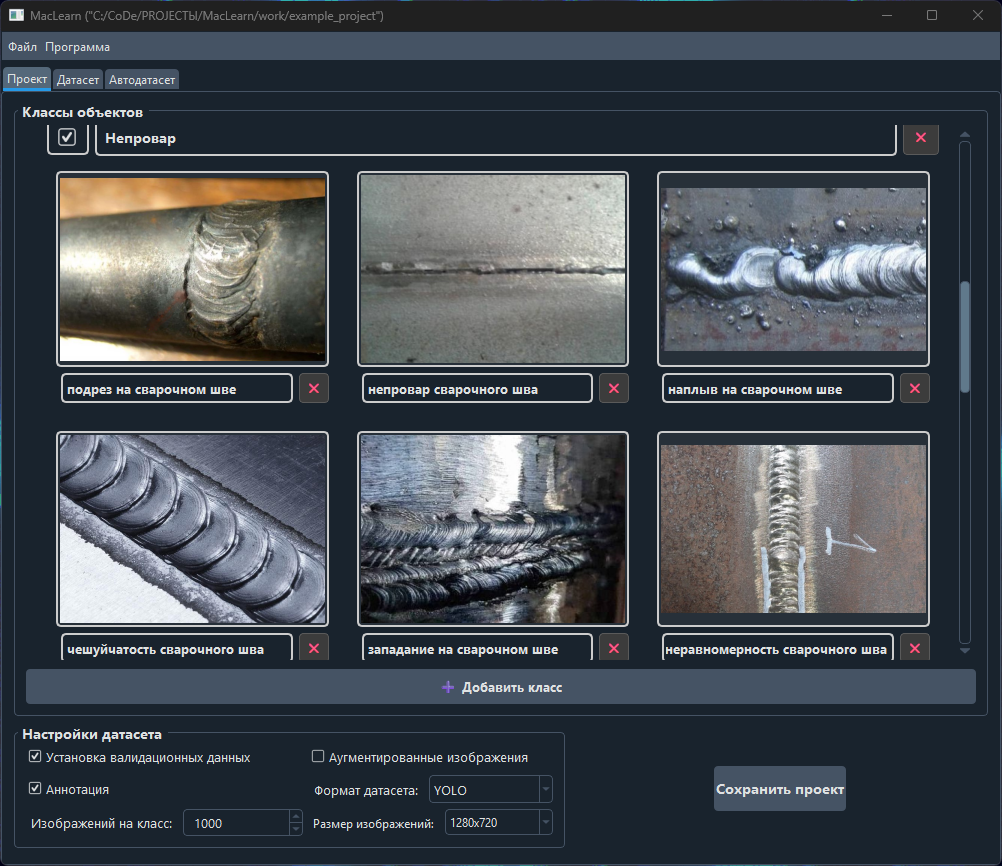
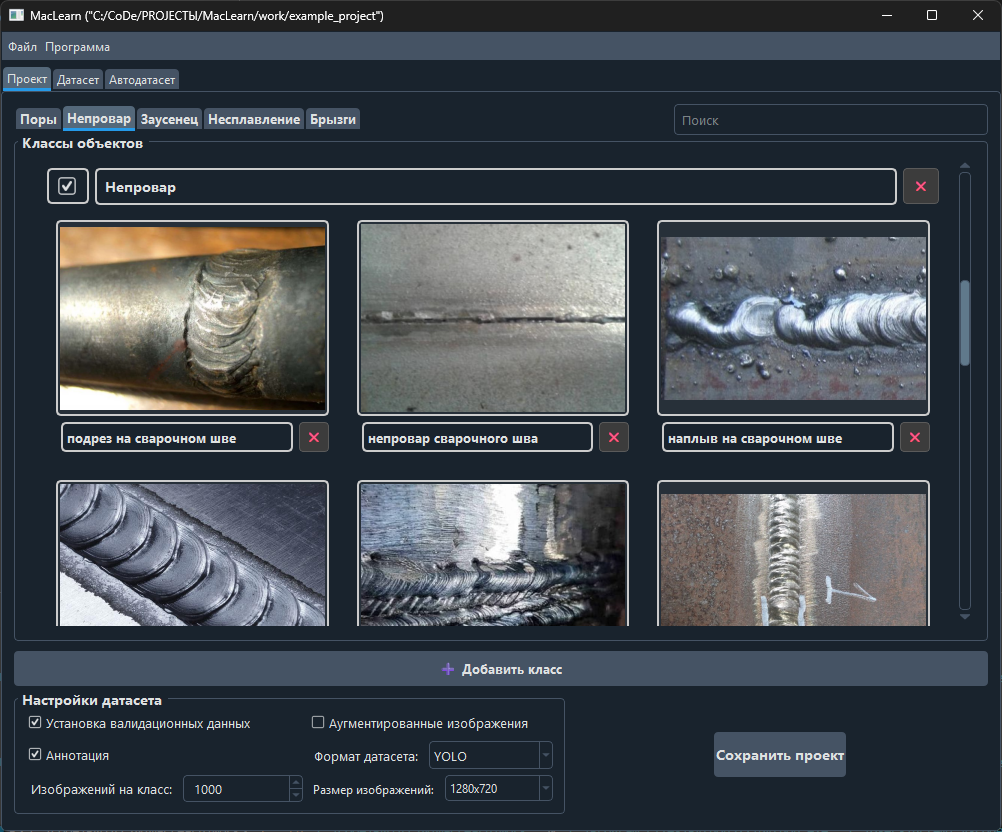
New funcs, optimizations, interface

diff --git a/src/interface_module/window.py b/src/interface_module/window.py
@@ -80,7 +80,7 @@ class ObjectCardWidget(QWidget):
 class ClassFieldWidget(QWidget):
     def __init__(self):
         super().__init__()
-        self.objects_widgets = []
+        self.objects: list[ObjectCardWidget] = []
 
     def initUI(self, class_name: str=None, enabled: bool=True,
                import_and_export_buttons: bool=True, name_enabled: bool=True):
@@ -104,14 +104,14 @@ class ClassFieldWidget(QWidget):
             self.class_checkbox.setChecked(enabled)
         self.class_name.setEnabled(self.name_enabled)
         self.class_add_object.setEnabled(enabled)
-        for object in self.objects_widgets:
+        for object in self.objects:
             object.setEnabled(enabled)
 
 
     def delete_class(self):
-        for object in self.objects_widgets:
+        for object in self.objects:
             self.delete_object(object)
-        self.objects_widgets.clear()
+        self.objects.clear()
         self.setParent(None)
         self.deleteLater()
 
@@ -121,26 +121,29 @@ class ClassFieldWidget(QWidget):
         object_card.initUI(object_name, object_image, name_enabled, click_image)
         object_card.object_delete.clicked.connect(
             lambda: (self.delete_object(object_card), self.update_layout()))
-        self.objects_widgets.append(object_card)
+        self.objects.append(object_card)
         return object_card
 
     def delete_object(self, object_widget: ObjectCardWidget, user_call: bool=False):
-        if object_widget in self.objects_widgets:
-            self.objects_widgets.remove(object_widget)
+        if object_widget in self.objects:
+            self.objects.remove(object_widget)
             object_widget.delete_object()
 
     def get_object(self, object_name: str=None) -> bool | ObjectCardWidget:
-        for object in self.objects_widgets:
+        for object in self.objects:
             if object.object_name.text()==object_name:
                 return object
         return False
 
 
     def update_layout(self):
-        if self.width() <= 0 or not self.objects_widgets:
-            return
+        objects = list(filter(lambda o: o.isVisible(), self.objects))
+        if not objects:
+            if not self.objects:
+                return
+            objects = self.objects
 
-        all_widgets = self.objects_widgets + [self.class_add_object]
+        all_widgets = objects + [self.class_add_object]
         widget_width = all_widgets[0].minimumWidth() if all_widgets[0].minimumWidth() > 0 else 100
         max_subclasses_per_row = max(1, (self.width() - 10) // (widget_width + 10))
 
@@ -163,50 +166,61 @@ class ClassFieldWidget(QWidget):
 class OverviewClassWidget(QWidget):
     def __init__(self):
         super().__init__()
-        self.fields_list: list[ClassFieldWidget] = []
+        self.fields: list[ClassFieldWidget] = []
 
     def initUI(self, class_name: str=None):
         uic.loadUi(os.path.join(uis_path, "widgets", "overview_class.ui"), self)
         if class_name:
             self.overview_group.setTitle(class_name)
-        self.tab_bar.currentChanged.connect(lambda i: self.scroll_to_field(i))
+        self.tab_bar.currentChanged.connect(self.scroll_to_field)
+        self.lineEdit_search.textChanged.connect(self.search_update)
         self.overview_scroll_area.verticalScrollBar().valueChanged.connect(self.update_tab_selection_from_scroll)
 
 
     def add_field(self, field_widget: ClassFieldWidget, field_name: str):
         self.overview_vertical_layout.addWidget(field_widget)
-        self.fields_list.append(field_widget)
+        self.fields.append(field_widget)
         self.tab_bar.addTab(field_name)
 
     def remove_field(self, field_widget: ClassFieldWidget):
-        if field_widget in self.fields_list:
+        if field_widget in self.fields:
             for i in range(self.tab_bar.count()):
                 if self.tab_bar.tabText(i)==field_widget.class_name.text():
                     self.tab_bar.removeTab(i)
                     break
-            self.fields_list.remove(field_widget)
+            self.fields.remove(field_widget)
             if self.overview_vertical_layout:
                 self.overview_vertical_layout.removeWidget(field_widget)
             field_widget.delete_class()
 
 
+    def search_update(self):
+        search_text = self.lineEdit_search.text().lower()
+        for field in self.fields:
+            for object in field.objects:
+                if search_text in object.object_name.text().lower() or not search_text:
+                    object.show()
+                else:
+                    object.hide()
+        self.update_all_fields_layouts()
+
     def update_all_fields_layouts(self):
-        for field_widget in self.fields_list:
+        for field_widget in self.fields:
             field_widget.update_layout()
 
     def scroll_to_field(self, index: int):
         def _scroll_to_widget(widget, scroll_area):
             pos_in_contents = widget.mapTo(scroll_area.widget(), widget.rect().topLeft())
             scroll_area.verticalScrollBar().setValue(pos_in_contents.y())
-        if 0<=index<len(self.fields_list):
+        if 0<=index<len(self.fields):
             QTimer.singleShot(0, lambda: _scroll_to_widget(
-                self.fields_list[index], self.overview_scroll_area))
+                self.fields[index], self.overview_scroll_area))
 
     def update_tab_selection_from_scroll(self):
         scroll_pos = self.overview_scroll_area.verticalScrollBar().value()
         viewport_height = self.overview_scroll_area.viewport().height()
         best_index, best_visibility = -1, -1
-        for i, field_widget in enumerate(self.fields_list):
+        for i, field_widget in enumerate(self.fields):
             if not field_widget.isVisible():
                 continue
             widget_y = field_widget.mapTo(self.overview_scroll_area.widget(), field_widget.rect().topLeft()).y()
@@ -221,7 +235,7 @@ class OverviewClassWidget(QWidget):
 
 
     def get_field_by_name(self, field_name: str) -> ClassFieldWidget | bool:
-        for field_widget in self.fields_list:
+        for field_widget in self.fields:
             if field_widget.class_name.text()==field_name:
                 return field_widget
         return False
@@ -251,7 +265,7 @@ class MainWindowUI(QMainWindow):
         self.project_resize_timer.timeout.connect(self.project_tab.project_overview.update_all_fields_layouts)
 
     def project_add_class(self, class_name: str = None, enabled: bool = True) -> ClassFieldWidget:
-        class_name = class_name or f"Класс {len(self.project_tab.project_overview.fields_list) + 1}"
+        class_name = class_name or f"Класс {len(self.project_tab.project_overview.fields) + 1}"
         class_widget = ClassFieldWidget()
         class_widget.initUI(class_name, enabled, False)
         self.project_tab.project_overview.add_field(class_widget, class_name)
@@ -331,7 +345,7 @@ class MainWindowUI(QMainWindow):
             field_widget.delete_class()
             class_widget = None
             for widget in self.dataset_tab.classes_tabs.values():
-                if field_widget in widget.fields_list:
+                if field_widget in widget.fields:
                     class_widget = widget
                     break
             if class_widget:
@@ -419,11 +433,12 @@ class MainWindowUI(QMainWindow):
         self.autodataset_update_progress()
 
     def autodataset_set_object_status(
-            self, object_name: str, status: int, object_class_name: str="No class", end_status: int=None):
+            self, object_name: str, status: int=None, object_class_name: str="No class", end_status: int=None):
         if object_name not in self.autodataset_classes_status:
             self.autodataset_classes_status[object_name] = {"class": object_class_name, "status": (0, 0)}
         self.autodataset_classes_status[object_name]["status"] = (
-            status, end_status or self.autodataset_classes_status[object_name]["status"][1])
+            status or self.autodataset_classes_status[object_name]["status"][0],
+            end_status or self.autodataset_classes_status[object_name]["status"][1])
         self.autodataset_visualise_classes_status()
 
     def autodataset_visualise_classes_status(self):

diff --git a/src/project_module/autodataset.py b/src/project_module/autodataset.py
@@ -142,6 +142,7 @@ class AutoDataset(QObject):
 
         self.downloaded_images_count = 0
         self.created_annotations_count = 0
+        self.processed_images_to_augment_count = 0
 
         self.do_download_images = True
         self.do_annotation = True
@@ -334,40 +335,46 @@ class AutoDataset(QObject):
         }
 
 
-    @pyqtSlot()
-    def run(self):
-        self._is_running, self._image_downloaded = True, True
-        self.update_information(('Начало работы.\n', 0))
+    def update_all_information(self, clear: bool=False):
+        if not self._is_running:
+            self.update_project_data()
+            if clear:
+                self.downloaded_images_count = 0
+                self.created_annotations_count = 0
+                self.processed_images_to_augment_count = 0
+            else:
+                self.downloaded_images_count = 0 or self.downloaded_images_count
+                self.created_annotations_count = 0 or self.created_annotations_count
+                self.processed_images_to_augment_count = 0 or self.processed_images_to_augment_count
+            self.need_download_to_class = int(self.project_data["configuration"]["images_per_class"] *
+                                            (1.2 if self.project_data["configuration"]["validation_data"] else 1))
+            self.all_images_count = sum([
+                self.need_download_to_class for class_data in self.project_data["classes"] if class_data["enabled"]])
 
-        self.always_switch_to_main_window_thread = Thread(
-            target=self.always_switch_to_main_window, daemon=True)
-        self.always_switch_to_main_window_thread.start()
-
-        self.update_project_data()
-        self.downloaded_images_count = 0
-        self.created_annotations_count = 0
-        self.processed_images_to_augment_count = 0
-        self.need_download_to_class = int(self.project_data["configuration"]["images_per_class"] *
-                                          (1.2 if self.project_data["configuration"]["validation_data"] else 1))
-        self.all_images_count = sum([
-            self.need_download_to_class for class_data in self.project_data["classes"] if class_data["enabled"]])
-
-        if self.do_download_images and self.driver and self._is_running:
-            self.update_information(("Подсчёт работы 1...\n", 1), stage_updated=(
-                "Download images", (self.downloaded_images_count, self.all_images_count)))
+        if self.do_download_images and self.driver:
+            self.stage_updated.emit("Download images", (self.downloaded_images_count, self.all_images_count))
             for class_data in self.project_data["classes"]:
                 if class_data["enabled"]:
                     for subclass_data in class_data["subclasses"]:
                         self.subclass_updated.emit(subclass_data["search_query"], 0, class_data["class_name"],
                                                    round(self.need_download_to_class/len(class_data["subclasses"])))
-        if self.project_data["configuration"]["annotation"] and self.do_annotation and self._is_running:
-            self.update_information(("Подсчёт работы 2...\n", 0), stage_updated=(
-                "Create annotation", (self.created_annotations_count, self.all_images_count)))
-        if self.project_data["configuration"]["augmentation"] and self.do_augmentation and self._is_running:
-            self.update_information(("Подсчёт работы 3...\n", 0),  stage_updated=(
-                "Create augmentation data", (self.processed_images_to_augment_count, self.all_images_count)))
+        if self.project_data["configuration"]["annotation"] and self.do_annotation:
+            self.stage_updated.emit("Create annotation", (self.created_annotations_count, self.all_images_count))
+        if self.project_data["configuration"]["augmentation"] and self.do_augmentation:
+            self.stage_updated.emit("Create augmentation data", (self.processed_images_to_augment_count, self.all_images_count))
+
+
+    @pyqtSlot()
+    def run(self):
+        self.update_all_information(True)
+        self._is_running, self._image_downloaded = True, True
+        self.always_switch_to_main_window_thread = None
+        self.update_information(('Начало работы.\n', 2))
 
         if self.do_download_images and self.driver:
+            self.always_switch_to_main_window_thread = Thread(
+                target=self.always_switch_to_main_window, daemon=True)
+            self.always_switch_to_main_window_thread.start()
             self.download_images_data()
         else:
             self.update_information((f'''INFO: Установка изображений выключена{
@@ -387,7 +394,8 @@ class AutoDataset(QObject):
             self.update_information(('Работа окончена, данные готовы.\n\n\n', 2))
 
         self._is_running = False
-        self.always_switch_to_main_window_thread.join()
+        if self.always_switch_to_main_window_thread:
+            self.always_switch_to_main_window_thread.join()
         self.finished.emit()
 
 

diff --git a/README.md b/README.md
@@ -5,17 +5,17 @@
 
 **Программа, которая за считанные минуты соберёт для вас качественный датасет из тысяч изображений, скачанных из интернета.**
 
-⭐ Если MacLearn оказался для вас полезным — поставьте звезду на GitHub. Это поможет проекту стать популярнее, а о нём узнает больше людей, которым он тоже нужен.
+⭐ Если MacLearn оказался для вас полезным — поставьте звезду на GitHub.
 
 ---
 
 ## 🖼 Скриншоты
 
-### Главное окно
-![Главное окно](https://github.com/b1t0nese/MacLearn/blob/main/doc/images/project_tab.png?raw=true)
+### Настройка проекта
+![Настройка проекта](https://github.com/b1t0nese/MacLearn/blob/main/doc/images/project_tab.png?raw=true)
 
-### Настройка классов
-![Настройка классов](https://github.com/b1t0nese/MacLearn/blob/main/doc/images/dataset_tab.png?raw=true)
+### Работа с датасетом
+![Работа с датасетом](https://github.com/b1t0nese/MacLearn/blob/main/doc/images/dataset_tab.png?raw=true)
 
 ### Автоматический сбор
 ![Автодатасет](https://github.com/b1t0nese/MacLearn/blob/main/doc/images/autodataset_tab_in_work.gif?raw=true)
@@ -54,7 +54,8 @@
 2. Запустите MacLearn.exe
 3. Выберите папку для нового проекта
 4. Добавьте классы (например: "кошка", "собака")
-5. Перейдите во вкладку "Автодатасет" и нажмите "Запуск"
+5. В классах добавьте поисковые запросы (можно добавить изображения примеры)
+6. Перейдите во вкладку "Автодатасет" и нажмите "Запуск"
 
 ## Готово! Через 1-2 часа у вас будет датасет на 5000+ изображений
 
